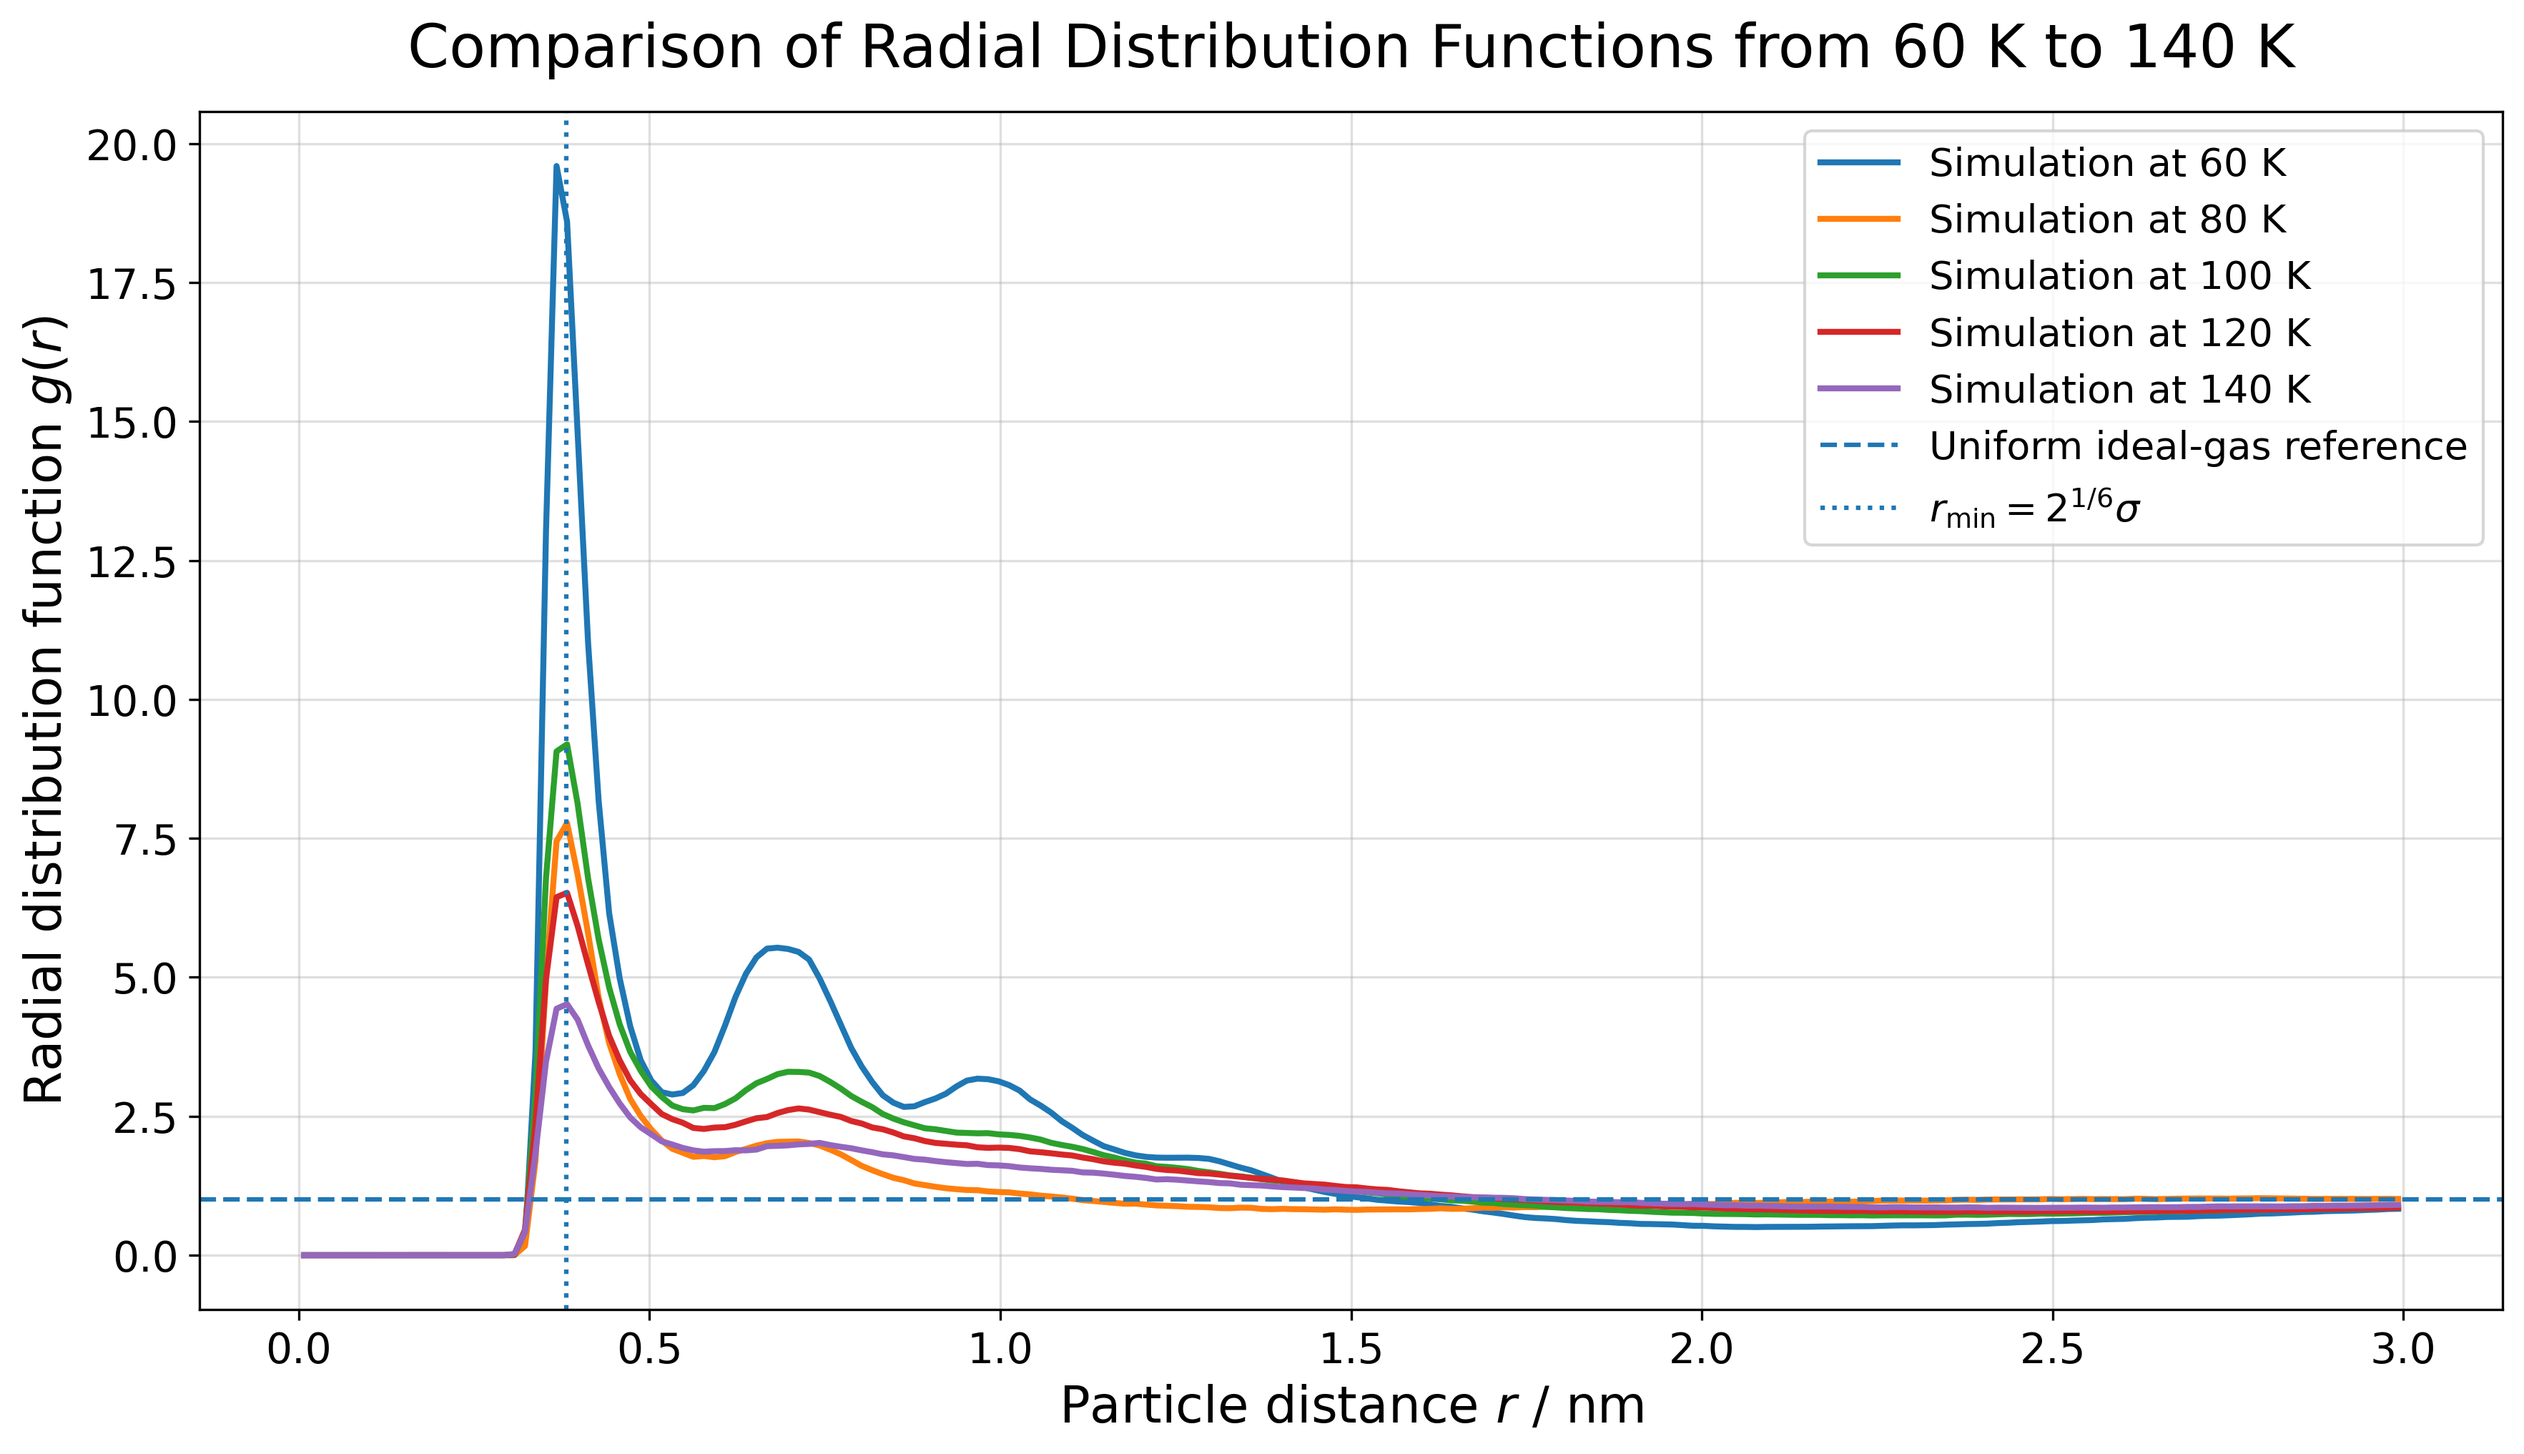
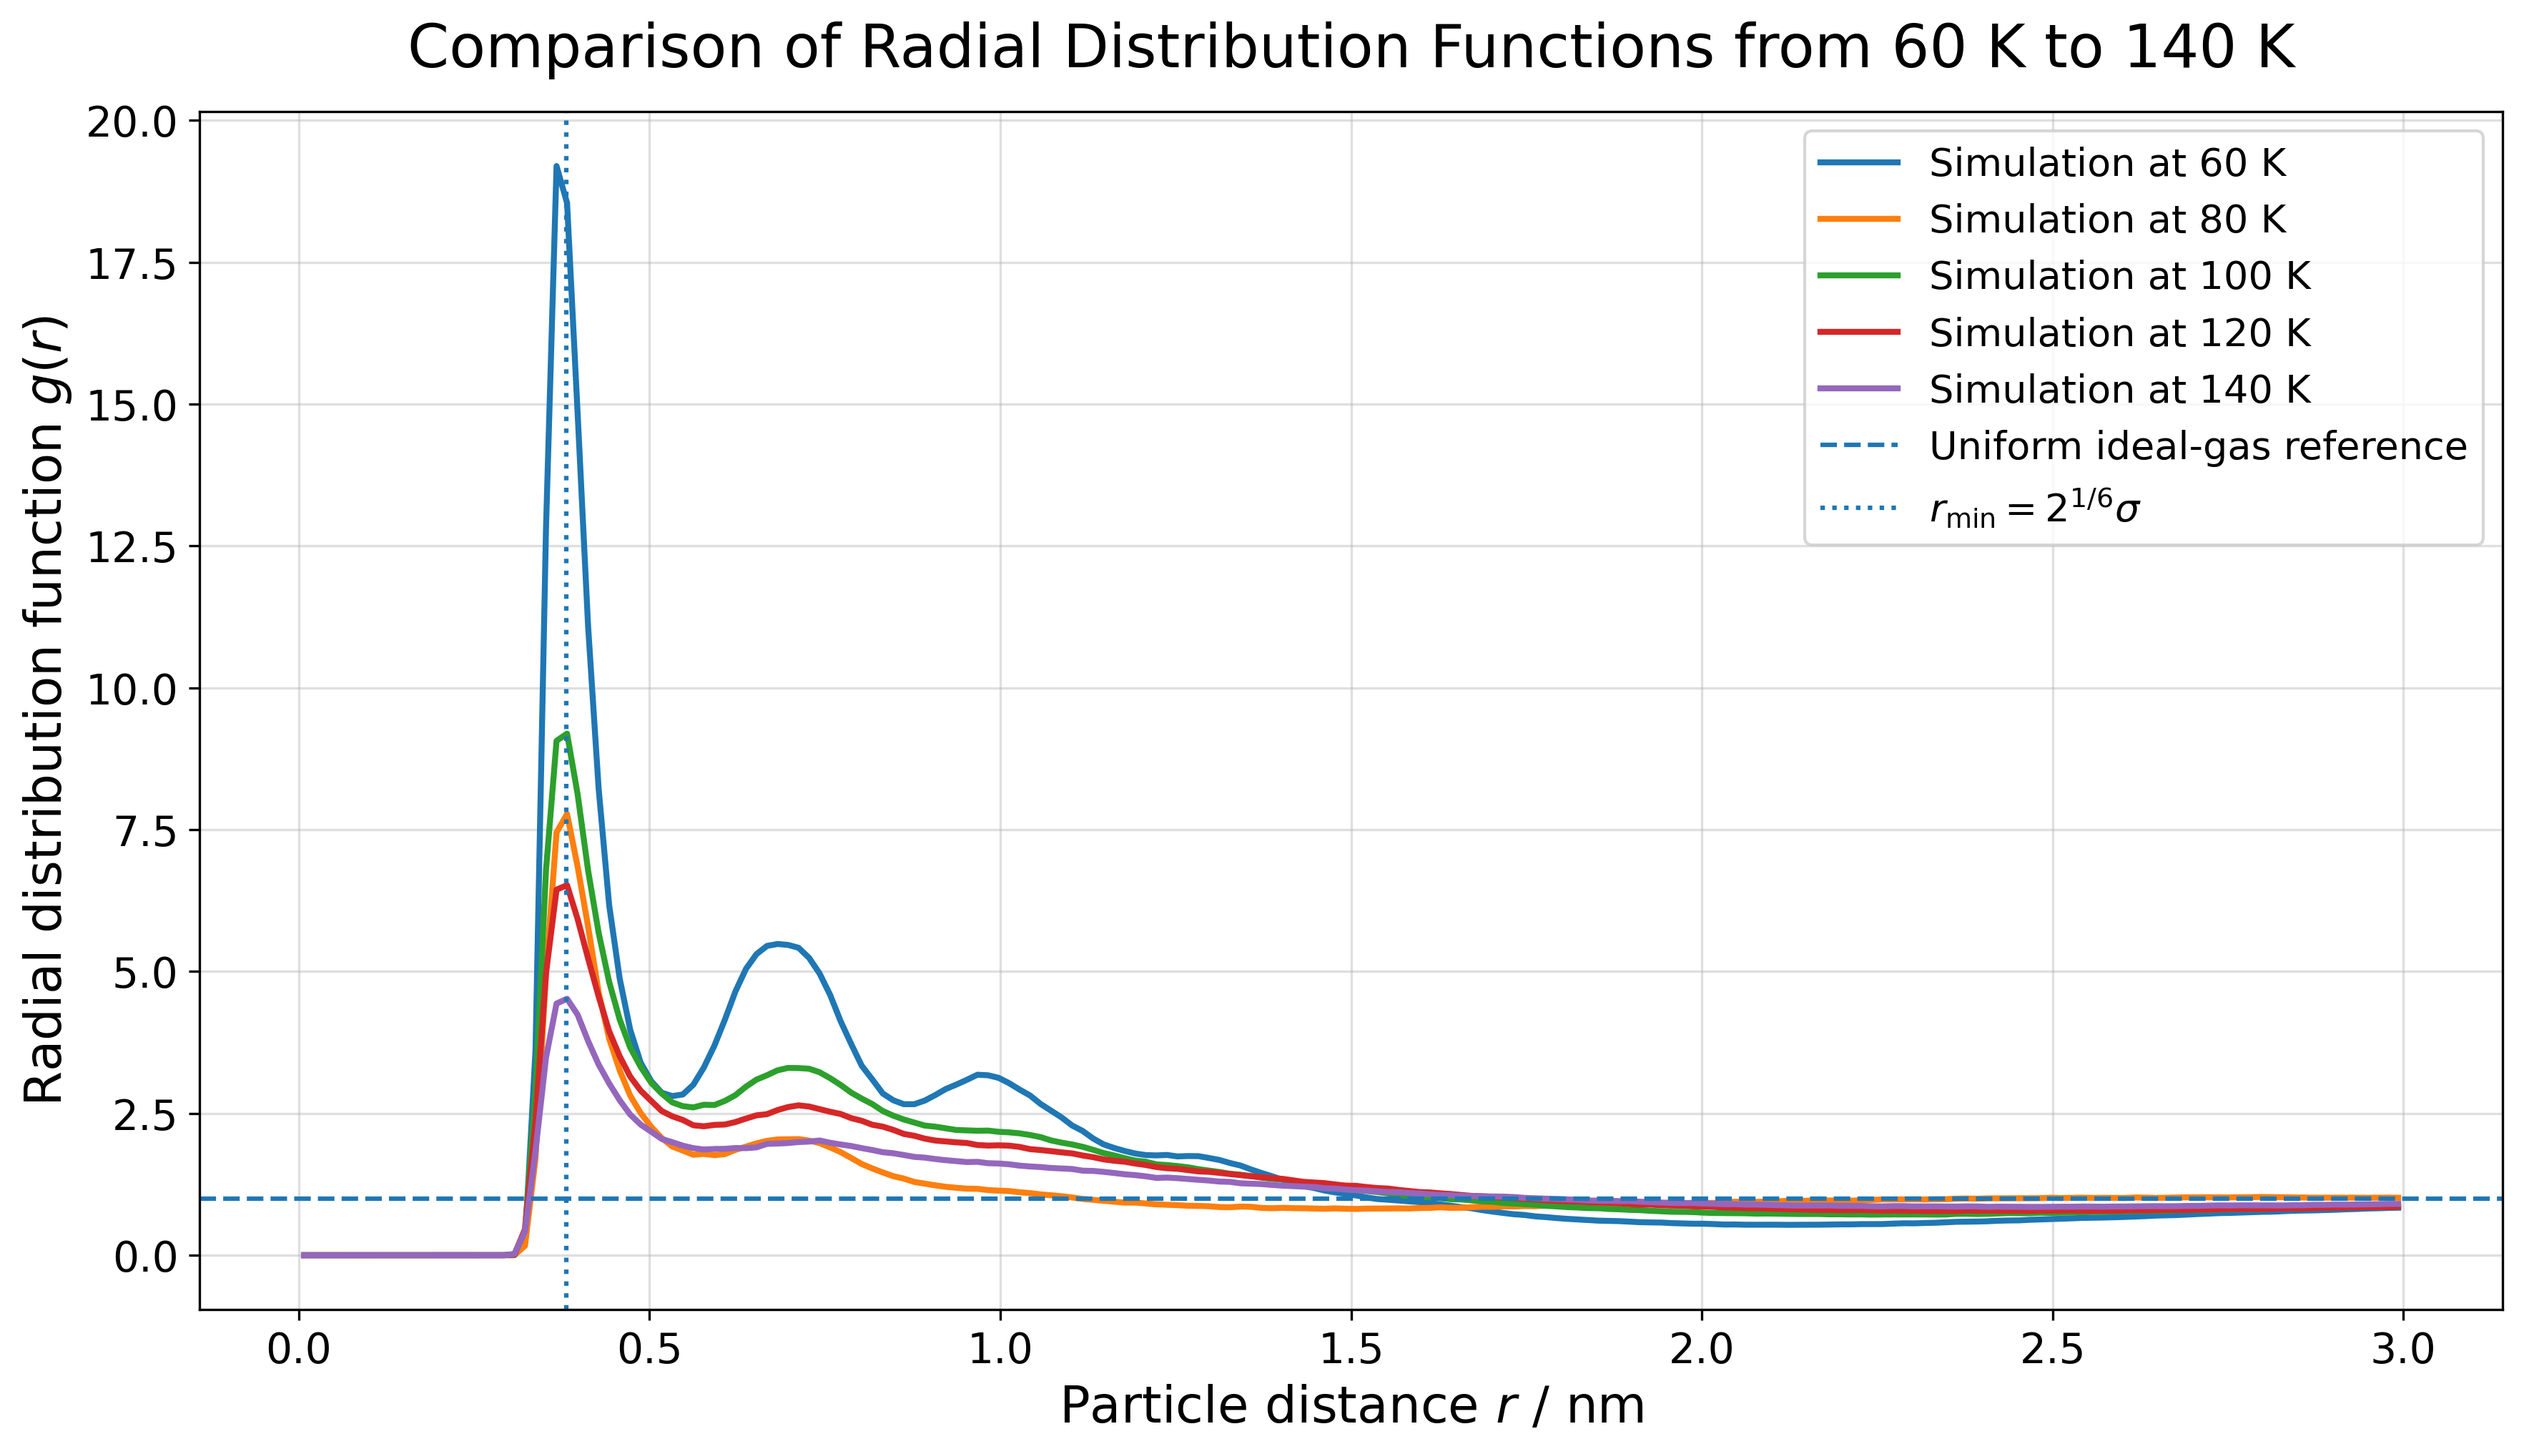
asd

diff --git a/Run_david.py b/Run_david.py
@@ -15,7 +15,7 @@ epsilon_argon = 120 * R * 1e-3  # epsilon in kJ/mol
 # simulation
 dt = 0.001
 n_steps = 30000
-temperature = 60
+temperature = 80
 box_length = 6
 tau_thermostat = 1
 rij_min = 1e-2
